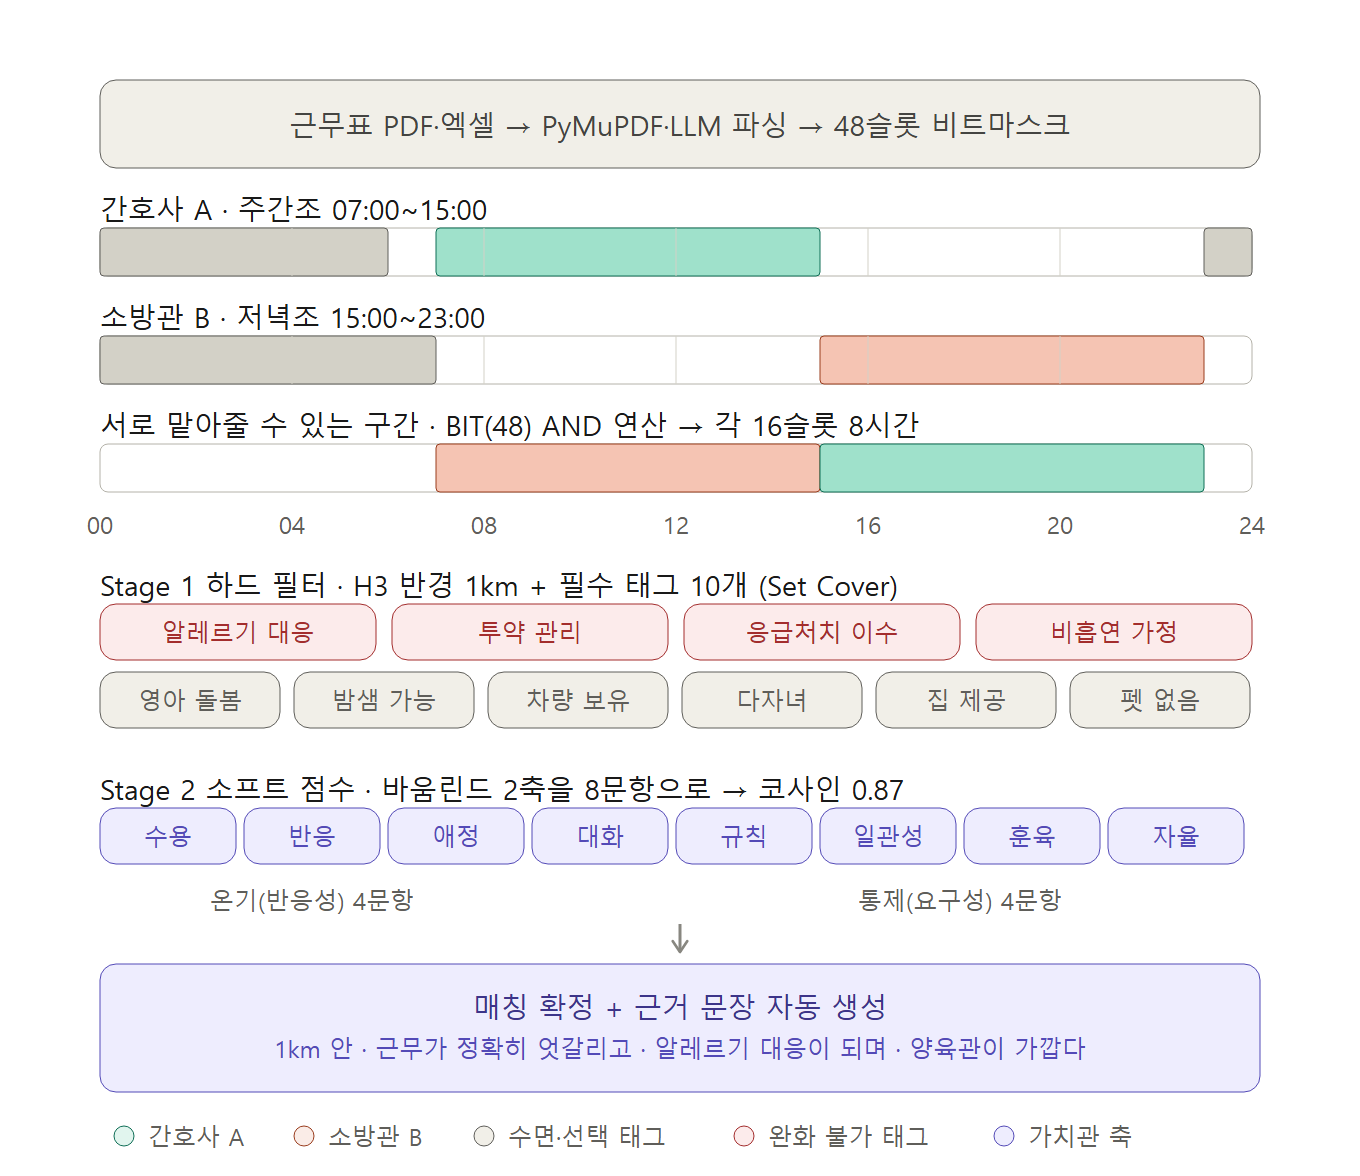
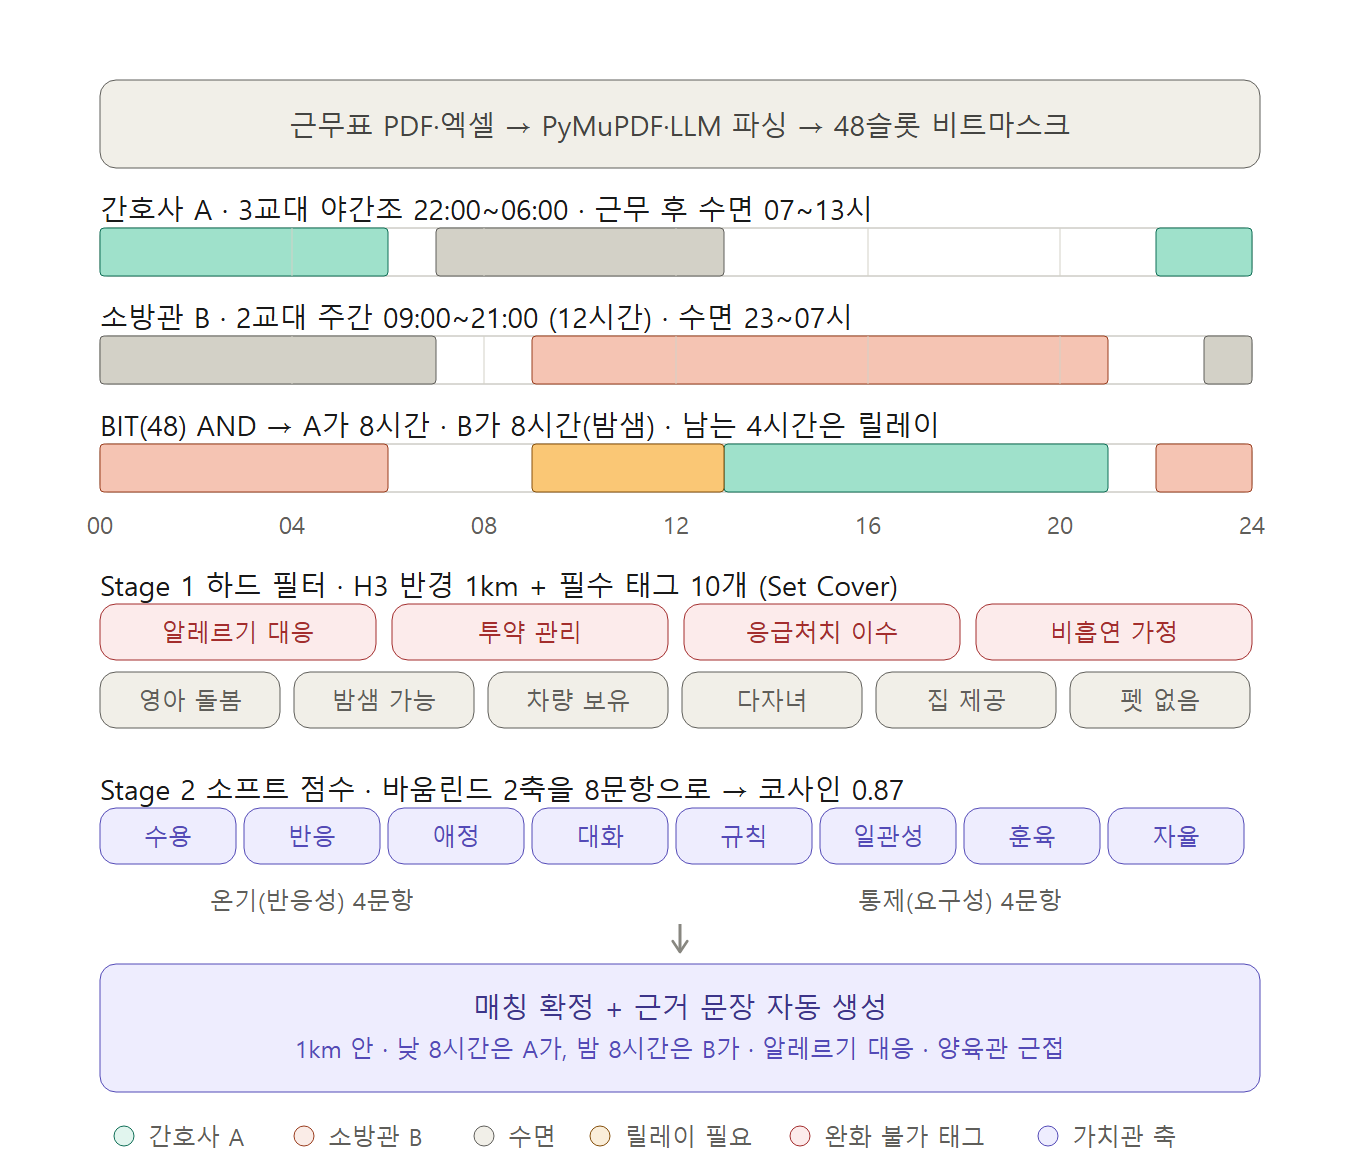
fix: 소방관 근무를 12시간 2교대로 정정 — 잔여 공백과 릴레이가 드러남
소방관은 8시간 저녁조가 아니라 12시간 2교대다. 실제 시간으로 다시
계산하니 예시가 덜 예뻐지는 대신 정확해졌다.

12시간을 일하면 남는 12시간 중 8시간이 수면이라 되갚을 여력이 적다.
간호사 3교대 야간조(22~06)와 소방관 주간 12시간(09~21)을 맞물리면
- 낮 8시간(13~21): 간호사가 소방관 아이를 맡는다
- 밤 8시간(22~06): 소방관이 밤샘 돌봄으로 맡는다 (아이도 자는 시간이라
  수면이 배제 사유가 아니다 - OVERNIGHT_OK 태그가 필요한 이유)
- 남는 4시간(09~13): 간호사가 야간 근무 후 수면 중이라 아무도 못 맡는다
  -> 릴레이 체인 구간

세 번째 줄에 빈틈이 생기는 게 오히려 설계를 설명한다. 왜 밤샘 태그와
릴레이가 P0/P1에 들어 있는지가 그림 하나로 드러난다.

diff --git a/scripts/build_widgets.py b/scripts/build_widgets.py
@@ -49,6 +49,7 @@ def _style() -> str:
         "rect.seg.c-teal{fill:#9FE1CB}",
         "rect.seg.c-coral{fill:#F5C4B3}",
         "rect.seg.c-gray{fill:#D3D1C7}",
+        "rect.seg.c-amber{fill:#FAC775}",
     ]
     for name, (fill, stroke, title, sub) in RAMPS.items():
         c = f".c-{name}"
@@ -125,12 +126,13 @@ def legend(y: int, items: list[tuple[int, str, str]]) -> str:
 def widget_matching() -> tuple[str, int, str]:
     b = [
         box(50, 40, 580, 44, "gray", ["근무표 PDF·엑셀 → PyMuPDF·LLM 파싱 → 48슬롯 비트마스크"]),
-        label(50, 104, "간호사 A · 주간조 07:00~15:00"),
-        strip(114, [(0, 12, "gray"), (46, 2, "gray"), (14, 16, "teal")]),
-        label(50, 158, "소방관 B · 저녁조 15:00~23:00"),
-        strip(168, [(0, 14, "gray"), (30, 16, "coral")]),
-        label(50, 212, "서로 맡아줄 수 있는 구간 · BIT(48) AND 연산 → 각 16슬롯 8시간"),
-        strip(222, [(14, 16, "coral"), (30, 16, "teal")], grid=False),
+        label(50, 104, "간호사 A · 3교대 야간조 22:00~06:00 · 근무 후 수면 07~13시"),
+        strip(114, [(0, 12, "teal"), (44, 4, "teal"), (14, 12, "gray")]),
+        label(50, 158, "소방관 B · 2교대 주간 09:00~21:00 (12시간) · 수면 23~07시"),
+        strip(168, [(18, 24, "coral"), (0, 14, "gray"), (46, 2, "gray")]),
+        label(50, 212, "BIT(48) AND → A가 8시간 · B가 8시간(밤샘) · 남는 4시간은 릴레이"),
+        strip(222, [(0, 12, "coral"), (44, 4, "coral"), (26, 16, "teal"), (18, 8, "amber")],
+              grid=False),
     ]
     for x, t in ((50, "00"), (146, "04"), (242, "08"), (338, "12"), (434, "16"), (530, "20"), (626, "24")):
         b.append(f'<text class="ts" x="{x}" y="262" text-anchor="middle" dominant-baseline="central">{t}</text>')
@@ -150,11 +152,11 @@ def widget_matching() -> tuple[str, int, str]:
     b.append(down(340, 462, 476))
     b.append(box(50, 482, 580, 64, "purple", [
         "매칭 확정 + 근거 문장 자동 생성",
-        "1km 안 · 근무가 정확히 엇갈리고 · 알레르기 대응이 되며 · 양육관이 가깝다",
+        "1km 안 · 낮 8시간은 A가, 밤 8시간은 B가 · 알레르기 대응 · 양육관 근접",
     ]))
     b.append(legend(568, [
-        (62, "teal", "간호사 A"), (152, "coral", "소방관 B"), (242, "gray", "수면·선택 태그"),
-        (372, "red", "완화 불가 태그"), (502, "purple", "가치관 축"),
+        (62, "teal", "간호사 A"), (152, "coral", "소방관 B"), (242, "gray", "수면"),
+        (300, "amber", "릴레이 필요"), (400, "red", "완화 불가 태그"), (524, "purple", "가치관 축"),
     ]))
     return "".join(b), 588, "품앗이온 매칭 전 과정 — 근무표 파싱부터 가치관 유사도까지"
 
